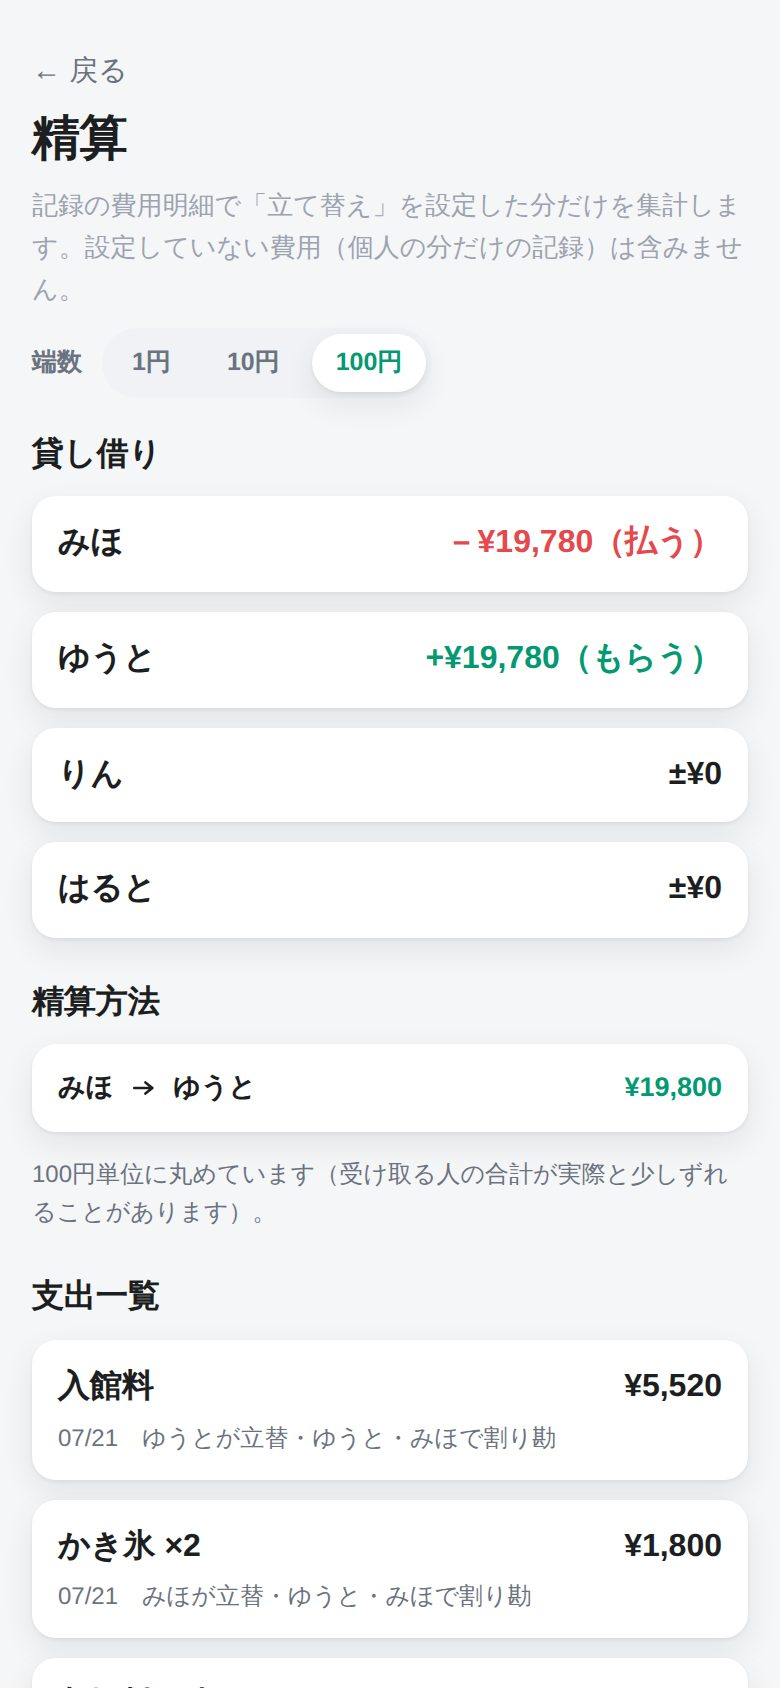
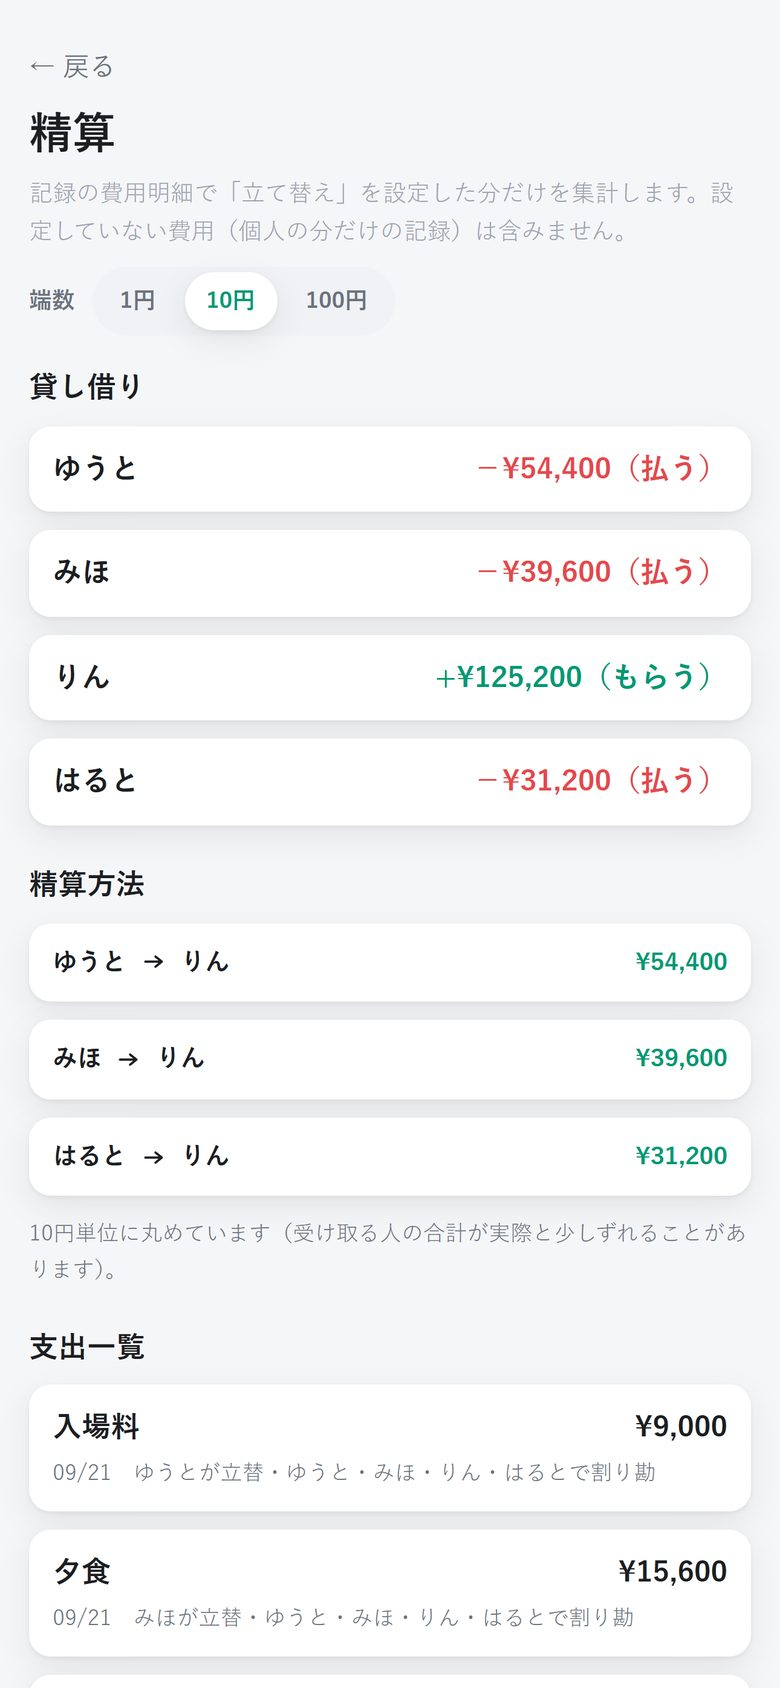
feat(tabilog): LPの画面の画像を、App Storeの写真と同じ新しい見本（ヨーロッパ旅行）に差し替える
繁體中文のLPには中国語の画面の画像を使う。画像の説明（alt）も新しい内容に合わせた。

Changed region(s): [[0.0308, 0.0308, 0.9538, 0.9858]]

diff --git a/apps/day07-tabilog/lp/index.html b/apps/day07-tabilog/lp/index.html
@@ -198,7 +198,7 @@
         </div>
       </div>
       <div class="hero-visual">
-        <div class="phone"><img src="img/trip-top.jpg" alt="旅行の画面。沖縄 家族旅行の日程・宿泊先・総費用と、1日目のきろく" width="390" height="844"></div>
+        <div class="phone"><img src="img/trip-top.jpg" alt="旅行の画面。ヨーロッパ周遊の旅の日程・宿泊先・総費用と、1日目のきろく" width="390" height="844"></div>
         <div class="float-card fc-1"><span class="dot" style="background:#FFF1DC">📸</span>写真も動画も</div>
         <div class="float-card fc-2"><span class="dot" style="background:var(--accent-soft)">🗺</span>地図でふりかえる</div>
       </div>
@@ -243,7 +243,7 @@
             <li>宿泊先・総費用は旅の上にまとめて表示</li>
           </ul>
         </div>
-        <div class="f-visual"><div class="phone"><img src="img/timeline.jpg" alt="1日目のきろく。予定ごとに写真・評価・費用の明細が並ぶ" loading="lazy" width="390" height="844"></div></div>
+        <div class="f-visual"><div class="phone"><img src="img/timeline.jpg" alt="2日目のきろく。予定ごとに写真・評価・費用の明細が並ぶ" loading="lazy" width="390" height="844"></div></div>
       </div>
 
       <div class="feature rev reveal">
@@ -310,7 +310,7 @@
             <li>立て替えた分だけを集計（個人の記録は混ざらない）</li>
           </ul>
         </div>
-        <div class="f-visual"><div class="phone"><img src="img/settle.jpg" alt="精算の画面。貸し借りと、みほからゆうとへ19,800円という精算方法" loading="lazy" width="390" height="844"></div></div>
+        <div class="f-visual"><div class="phone"><img src="img/settle.jpg" alt="精算の画面。4人の貸し借りと、誰が誰にいくら払うかの精算方法" loading="lazy" width="390" height="844"></div></div>
       </div>
 
       <div class="feature reveal">
@@ -326,7 +326,7 @@
         </div>
         <div class="f-visual two">
           <div class="phone"><img src="img/visited.jpg" alt="行ったことある旅先。15/47都道府県が日本地図に塗られている" loading="lazy" width="390" height="844"></div>
-          <div class="phone"><img src="img/visited-overseas.jpg" alt="海外の旅先。7か国が世界地図に塗られている" loading="lazy" width="390" height="844"></div>
+          <div class="phone"><img src="img/visited-overseas.jpg" alt="海外の旅先。5か国が世界地図に塗られている" loading="lazy" width="390" height="844"></div>
         </div>
       </div>
     </div>

diff --git a/apps/day07-tabilog/lp/en.html b/apps/day07-tabilog/lp/en.html
@@ -202,7 +202,7 @@
         </div>
       </div>
       <div class="hero-visual">
-        <div class="phone"><img src="img/trip-top.jpg" alt="Trip screen. The itinerary, lodging and total cost of an Okinawa family trip, plus the Day 1 record" width="390" height="844"></div>
+        <div class="phone"><img src="img/trip-top.jpg" alt="Trip screen. The itinerary, lodging and total cost of a three-country Europe trip, plus the Day 1 record" width="390" height="844"></div>
         <div class="float-card fc-1"><span class="dot" style="background:#FFF1DC">📸</span>Photos and videos too</div>
         <div class="float-card fc-2"><span class="dot" style="background:var(--accent-soft)">🗺</span>Look back on the map</div>
       </div>
@@ -247,7 +247,7 @@
             <li>Lodging and total cost are summarized at the top of the trip page</li>
           </ul>
         </div>
-        <div class="f-visual"><div class="phone"><img src="img/timeline.jpg" alt="The Day 1 record. Each activity lists photos, ratings and cost details in order" loading="lazy" width="390" height="844"></div></div>
+        <div class="f-visual"><div class="phone"><img src="img/timeline.jpg" alt="The Day 2 record. Each activity lists photos, ratings and cost details in order" loading="lazy" width="390" height="844"></div></div>
       </div>
 
       <div class="feature rev reveal">
@@ -314,7 +314,7 @@
             <li>Only costs paid by someone are counted (personal-only records don't get mixed in)</li>
           </ul>
         </div>
-        <div class="f-visual"><div class="phone"><img src="img/settle.jpg" alt="The settle-up screen. It shows each person's balance and how Miho pays Yuto ¥19,800" loading="lazy" width="390" height="844"></div></div>
+        <div class="f-visual"><div class="phone"><img src="img/settle.jpg" alt="The settle-up screen. It shows four people's balances and who pays whom" loading="lazy" width="390" height="844"></div></div>
       </div>
 
       <div class="feature reveal">
@@ -330,7 +330,7 @@
         </div>
         <div class="f-visual two">
           <div class="phone"><img src="img/visited.jpg" alt="Places visited. 15 of 47 prefectures lit up on the map of Japan" loading="lazy" width="390" height="844"></div>
-          <div class="phone"><img src="img/visited-overseas.jpg" alt="Overseas places. 7 countries lit up on the world map" loading="lazy" width="390" height="844"></div>
+          <div class="phone"><img src="img/visited-overseas.jpg" alt="Overseas places. 5 countries lit up on the world map" loading="lazy" width="390" height="844"></div>
         </div>
       </div>
     </div>

diff --git a/apps/day07-tabilog/lp/zh.html b/apps/day07-tabilog/lp/zh.html
@@ -201,7 +201,7 @@
         </div>
       </div>
       <div class="hero-visual">
-        <div class="phone"><img src="img/trip-top.jpg" alt="旅行畫面。沖繩家族旅行的行程、住宿、總花費，以及第 1 天的紀錄" width="390" height="844"></div>
+        <div class="phone"><img src="img/zh-trip-top.jpg" alt="旅行畫面。歐洲三國之旅的行程、住宿、總花費，以及第 1 天的紀錄" width="390" height="844"></div>
         <div class="float-card fc-1"><span class="dot" style="background:#FFF1DC">📸</span>照片影片都能放</div>
         <div class="float-card fc-2"><span class="dot" style="background:var(--accent-soft)">🗺</span>在地圖上回顧</div>
       </div>
@@ -246,7 +246,7 @@
             <li>住宿與總花費整理在旅行頁最上方</li>
           </ul>
         </div>
-        <div class="f-visual"><div class="phone"><img src="img/timeline.jpg" alt="第 1 天的紀錄。每個行程依序列出照片、評分與花費明細" loading="lazy" width="390" height="844"></div></div>
+        <div class="f-visual"><div class="phone"><img src="img/zh-timeline.jpg" alt="第 2 天的紀錄。每個行程依序列出照片、評分與花費明細" loading="lazy" width="390" height="844"></div></div>
       </div>
 
       <div class="feature rev reveal">
@@ -313,7 +313,7 @@
             <li>只統計代墊的款項（個人的紀錄不會混進來）</li>
           </ul>
         </div>
-        <div class="f-visual"><div class="phone"><img src="img/settle.jpg" alt="結算畫面。顯示各人的借貸，以及美穗付 19,800 日圓給悠斗的結算方式" loading="lazy" width="390" height="844"></div></div>
+        <div class="f-visual"><div class="phone"><img src="img/zh-settle.jpg" alt="結算畫面。顯示 4 人的借貸，以及誰該付給誰多少錢" loading="lazy" width="390" height="844"></div></div>
       </div>
 
       <div class="feature reveal">
@@ -329,7 +329,7 @@
         </div>
         <div class="f-visual two">
           <div class="phone"><img src="img/visited.jpg" alt="去過的地方。日本地圖上已點亮 15/47 個都道府縣" loading="lazy" width="390" height="844"></div>
-          <div class="phone"><img src="img/visited-overseas.jpg" alt="海外的地方。世界地圖上已點亮 7 個國家" loading="lazy" width="390" height="844"></div>
+          <div class="phone"><img src="img/zh-visited-overseas.jpg" alt="海外的地方。世界地圖上已點亮 5 個國家" loading="lazy" width="390" height="844"></div>
         </div>
       </div>
     </div>
